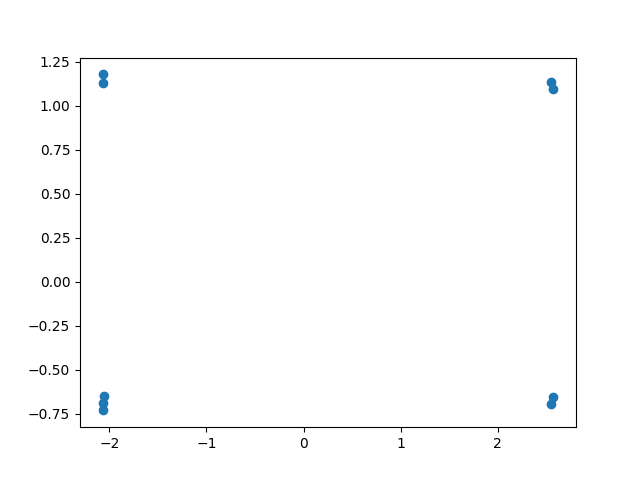
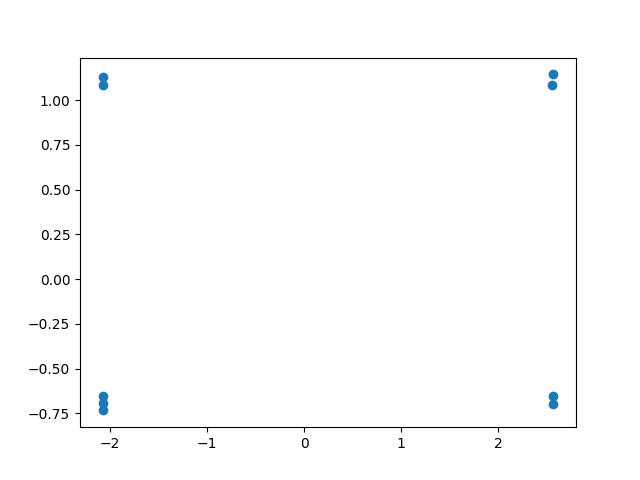
slop line

diff --git a/src/lidablo/lidablo/task2.py b/src/lidablo/lidablo/task2.py
@@ -42,16 +42,16 @@ class FeatureExtracter(Node):
 
     #     return points
 
-    def polar_to_cartesian_coordinate(self, ranges, angle_min, angle_max, angle_increment, msg):
+    def polar_to_cartesian_coordinate(self,  msg):
 
-        angle = angle_min               # start angle
+        angle = msg.angle_min               # start angle
         tf_points = []
-        for range in ranges:
+        for range in msg.ranges:
             x = range * np.cos(angle)
             y = range * np.sin(angle)
 
             # current angle is last angle add angle_increment
-            angle += angle_increment
+            angle += msg.angle_increment
             tf_points.append([x, y])
 
         # transform the transformed points to numpy array
@@ -68,7 +68,7 @@ class FeatureExtracter(Node):
         accepted_error_rad = 0.1745
         angles_and_errors = []
         ranges = self.polar_to_cartesian_coordinate(
-            msg.ranges, msg.angle_min, msg.angle_max, msg.angle_increment, "Detecting Corners.")
+            msg)
 
         for idx, _ in enumerate(ranges):
             last_index = idx + window_size
@@ -105,23 +105,18 @@ class FeatureExtracter(Node):
         plt.savefig(f"img/corners-{msg}")
 
     def plot_lines(self, lines, msg):
-        # plt.figure()
+        plt.figure()
         for line in lines:
             print("Line length : ", len(line))
-            # if len(line) > 0:
-            # plt.scatter(line[:, 0], line[:, 1])
-            # plt.savefig(f"img/lines-{msg}")
+            if len(line) > 0:
+                line = np.array(line)
+                plt.scatter(line[:, 0], line[:, 1])
+        plt.savefig(f"img/lines-{msg}")
 
     def detect_lines(self, msg):
         total_ranges = len(msg.ranges) - 1
 
-        ranges = self.polar_to_cartesian_coordinate(
-            msg.ranges, msg.angle_min, msg.angle_max, msg.angle_increment, "Detecting Corners.")
-
-        # for point in ranges:
-        #     x = []
-        #     y = []
-        # line = np.polyfit(x, y, 1)
+        ranges = self.polar_to_cartesian_coordinate(msg)
 
         accepted_error = 15
         previous_slope = 0
@@ -134,8 +129,8 @@ class FeatureExtracter(Node):
                 current_point = ranges[idx]
                 next_point = ranges[next_idx]
 
-                current_slope = next_point[0] - current_point[0] / \
-                    next_point[1] - current_point[1]
+                current_slope = next_point[1] - current_point[1] / \
+                    next_point[0] - current_point[0]
 
                 slope_diff = np.abs(current_slope - previous_slope)
 
@@ -149,28 +144,9 @@ class FeatureExtracter(Node):
                     line = []
 
                 previous_slope = current_slope
-        print("Number of Lines ", len(lines))
-        lines = np.array(lines, dtype=object)
         return lines
 
     def scan_callback(self, msg):
-
-        # self.polar_to_cartesian_coordinate(
-        # msg.ranges, msg.angle_min,
-        # msg.angle_max, msg.angle_increment)
-
-        #################################
-        ranges = []
-        for r in msg.ranges:
-            if r > 2.5 or r < 1.0:   # Feature extraction code here
-                ranges.append(0.0)
-            else:
-                ranges.append(r)
-
-        ##################################
-
-        # line = self.detect_lines(msg)
-        # print(line)
 
         corners = self.detect_corners(msg)
         lines = self.detect_lines(msg)
@@ -186,7 +162,7 @@ class FeatureExtracter(Node):
         scan.time_increment = msg.time_increment
         scan.range_min = msg.range_min
         scan.range_max = msg.range_max
-        scan.ranges = ranges
+        scan.ranges = msg.ranges
         self.publisher_.publish(scan)
 
         self.scan_idx += 1
